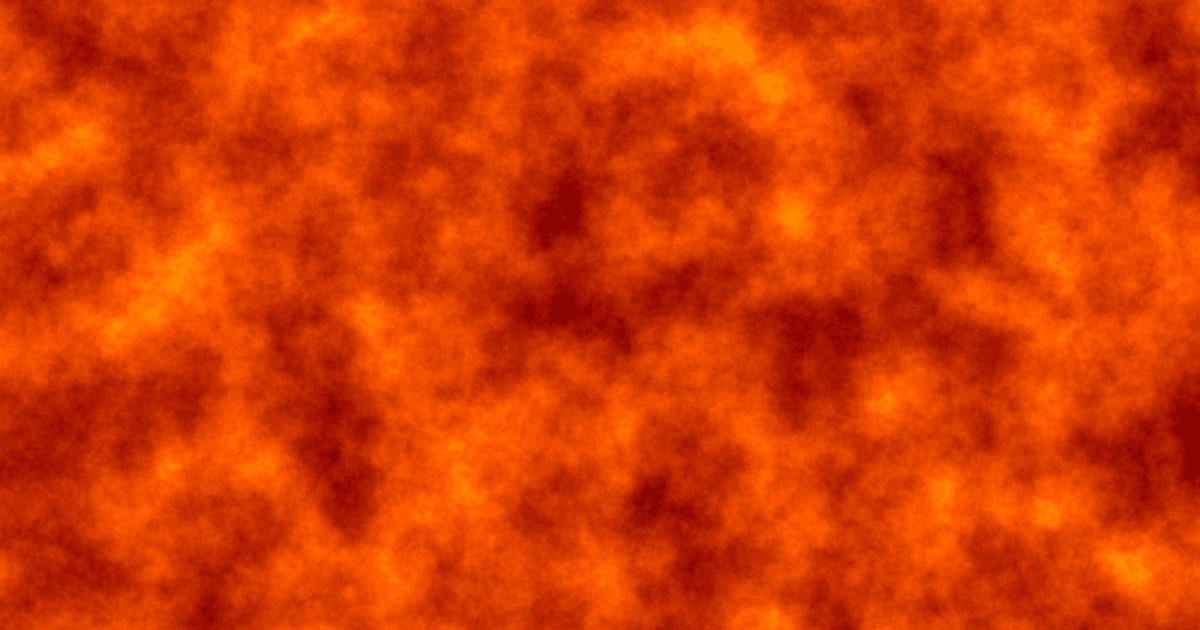
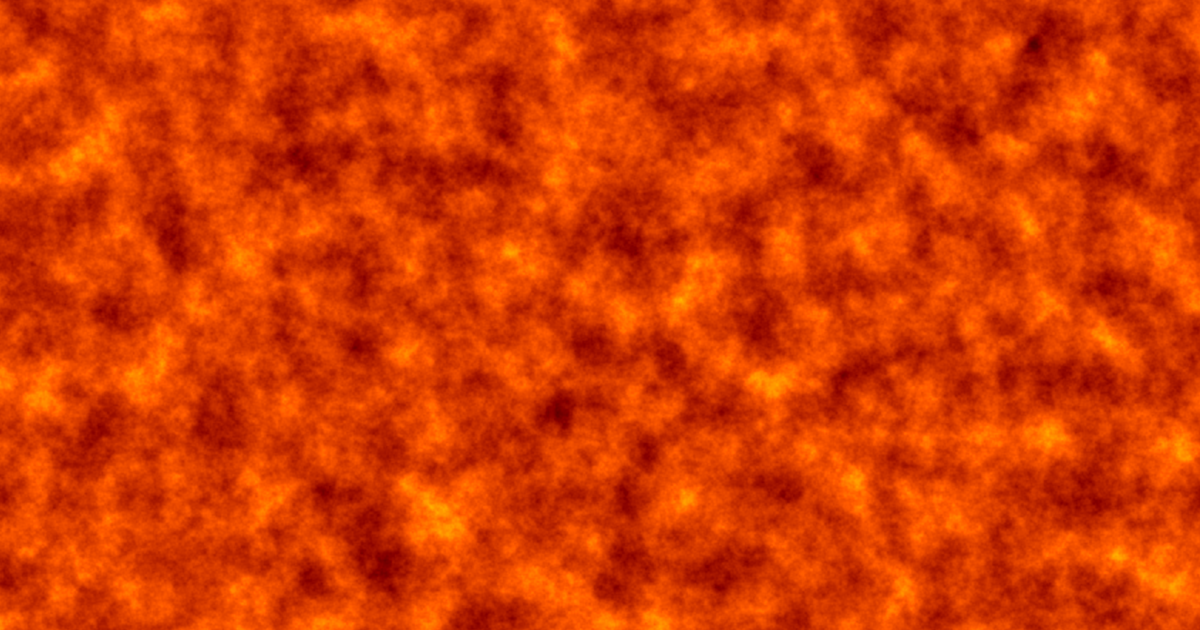
build: render the gallery from the real presets (full-pipeline tool)
Refactor scripts/render-readme-images.js to render the actual BUILTIN_PRESETS
through perlin.js generatePerlinImage (the full pipeline — domain warp,
Layer 2, flow, posterize, per-channel — via a headless mock ctx, still pure
Node / zero-dep), instead of a duplicated, simplified copy of the gradients
and hand-tuned params. Regenerate hero (lava) + a 6-image gallery that shows
the colour-mode range: aurora (HSV), nebula (per-channel RGB), marble (warp),
flow (flow field), composite (Layer 2), terrain (posterize). Update the
README gallery; drop the stale gallery-ocean / gallery-circuit images.

diff --git a/scripts/render-readme-images.js b/scripts/render-readme-images.js
@@ -1,5 +1,7 @@
-// Renders the README showcase images (assets/hero.png + gallery-*.png) using
-// the actual perlin.js module from this repo. PNG encoding is pure Node
+// Renders the README showcase images (assets/hero.png + gallery-*.png) from
+// the ACTUAL built-in presets (perlin-presets.js) through the full render
+// pipeline (perlin.js generatePerlinImage — domain warp, layer 2, flow,
+// posterize and per-channel noise all supported). PNG encoding is pure Node
 // (zlib + crc32), no external dependencies.
 //
 //   node scripts/render-readme-images.js
@@ -11,76 +13,38 @@ const fs = require("fs");
 const zlib = require("zlib");
 const path = require("path");
 
-// perlin.js exports via window.MTPerlin — build the sandbox as in AGENTS.md.
+// perlin.js + perlin-presets.js export via window.* — build the sandbox as in
+// AGENTS.md so the renderer uses the real presets with no duplicated data.
 const REPO = path.resolve(__dirname, "..");
 global.window = {};
 require(path.join(REPO, "perlin.js"));
-const { makePermutation, fbm3, fbm4, colorize } = global.window.MTPerlin;
+require(path.join(REPO, "perlin-presets.js"));
+const { generatePerlinImage } = global.window.MTPerlin;
+const { BUILTIN_PRESETS, resolveParams } = global.window.MTPerlinPresets;
 
-// ---------- Gradients (copy from perlin-studio.js so the renderer is self-contained) ----------
-const GRADIENTS = {
-  fire: [
-    { pos: 0.0, color: [0, 0, 0] },
-    { pos: 0.3, color: [136, 0, 0] },
-    { pos: 0.6, color: [255, 89, 0] },
-    { pos: 0.85, color: [255, 213, 0] },
-    { pos: 1.0, color: [255, 255, 240] },
-  ],
-  ocean: [
-    { pos: 0.0, color: [3, 11, 41] },
-    { pos: 0.3, color: [5, 56, 107] },
-    { pos: 0.6, color: [0, 144, 178] },
-    { pos: 0.85, color: [120, 220, 220] },
-    { pos: 1.0, color: [240, 248, 255] },
-  ],
-  forest: [
-    { pos: 0.0, color: [25, 35, 20] },
-    { pos: 0.3, color: [40, 80, 30] },
-    { pos: 0.6, color: [80, 140, 50] },
-    { pos: 0.85, color: [180, 200, 110] },
-    { pos: 1.0, color: [240, 245, 200] },
-  ],
-  grayscale: [
-    { pos: 0.0, color: [0, 0, 0] },
-    { pos: 1.0, color: [255, 255, 255] },
-  ],
-  sunset: [
-    { pos: 0.0, color: [12, 12, 60] },
-    { pos: 0.3, color: [110, 30, 100] },
-    { pos: 0.6, color: [240, 110, 80] },
-    { pos: 0.85, color: [255, 200, 90] },
-    { pos: 1.0, color: [255, 245, 200] },
-  ],
-};
-
-// ---------- Render one frame (loop mode at the chosen progress) ----------
-function renderFrame(params) {
-  const { width, height, scaleX, scaleY, scaleT,
-          octaves, persistence, lacunarity, base,
-          loopProgress, loopRadius = 1 } = params;
-  const perm = makePermutation(base);
-  const buf = Buffer.alloc(width * height * 3);
-
-  const radius = loopRadius * (scaleT || 1);
-  const safeProgress = ((loopProgress || 0) % 1 + 1) % 1;
-  const alpha = safeProgress * Math.PI * 2;
-  const zc = Math.cos(alpha) * radius;
-  const wc = Math.sin(alpha) * radius;
-
-  const colorParams = { ...params };
-  if (colorParams.gradientName) {
-    colorParams.gradient = GRADIENTS[colorParams.gradientName] || GRADIENTS.grayscale;
+// Headless 2D-context shim: generatePerlinImage only needs createImageData +
+// putImageData — no canvas, no deps (same trick as scripts/smoke-test.js).
+// Returns a packed RGB buffer (alpha dropped; presets don't use the mask).
+function renderRGB(params) {
+  const ctx = {
+    createImageData: (w, h) => ({ width: w, height: h, data: new Uint8ClampedArray(w * h * 4) }),
+    _img: null,
+    putImageData(img) { this._img = img; },
+  };
+  generatePerlinImage(params, ctx);
+  const rgba = ctx._img.data;
+  const rgb = Buffer.alloc(params.width * params.height * 3);
+  for (let i = 0, j = 0; i < rgba.length; i += 4) {
+    rgb[j++] = rgba[i]; rgb[j++] = rgba[i + 1]; rgb[j++] = rgba[i + 2];
   }
+  return rgb;
+}
 
-  let off = 0;
-  for (let y = 0; y < height; y++) {
-    for (let x = 0; x < width; x++) {
-      const n = fbm4(perm, x * scaleX, y * scaleY, zc, wc, octaves, persistence, lacunarity);
-      const [r, g, b] = colorize(n, colorParams);
-      buf[off++] = r; buf[off++] = g; buf[off++] = b;
-    }
-  }
-  return buf;
+// A single still frame from a named preset at a chosen loop position + size.
+function presetFrame(name, width, height, loopProgress) {
+  const preset = BUILTIN_PRESETS[name];
+  if (!preset) throw new Error("unknown preset: " + name);
+  return renderRGB(resolveParams({ ...preset, width, height, loop: true, loopProgress }));
 }
 
 // ---------- PNG encoder (pure Node) ----------
@@ -107,17 +71,17 @@ function chunk(type, data) {
   return Buffer.concat([len, typeBuf, data, crc]);
 }
 function encodePng(width, height, rgb) {
-  // IHDR: width, height, bit depth=8, colour type=2 (RGB), compression=0, filter=0, interlace=0
+  // IHDR: width, height, bit depth=8, colour type=2 (RGB), no interlace.
   const ihdr = Buffer.alloc(13);
   ihdr.writeUInt32BE(width, 0);
   ihdr.writeUInt32BE(height, 4);
-  ihdr.writeUInt8(8, 8);     // bit depth
-  ihdr.writeUInt8(2, 9);     // colour type RGB
-  ihdr.writeUInt8(0, 10);    // compression
-  ihdr.writeUInt8(0, 11);    // filter
-  ihdr.writeUInt8(0, 12);    // interlace
+  ihdr.writeUInt8(8, 8);
+  ihdr.writeUInt8(2, 9);
+  ihdr.writeUInt8(0, 10);
+  ihdr.writeUInt8(0, 11);
+  ihdr.writeUInt8(0, 12);
 
-  // Prefix each scanline with filter byte 0 (None)
+  // Prefix each scanline with filter byte 0 (None).
   const stride = width * 3;
   const filtered = Buffer.alloc(height * (stride + 1));
   for (let y = 0; y < height; y++) {
@@ -136,63 +100,18 @@ function encodePng(width, height, rgb) {
 }
 
 // ---------- Render jobs ----------
+// Hero is the iconic Lava fire; the gallery shows the range of colour modes /
+// features: HSV (aurora), per-channel RGB (nebula), domain warp (marble),
+// flow field (flow), Layer 2 composite, and posterize (terrain).
 const ASSETS = path.join(REPO, "assets");
-const LOOP_DEFAULTS = { loopRadius: 1.0, scaleT: 0.15 };
-
 const JOBS = [
-  // Hero / OG image — Lava variant, wide
-  {
-    out: "hero.png",
-    params: {
-      width: 1200, height: 630,
-      scaleX: 0.008, scaleY: 0.008, scaleT: 0.12,
-      octaves: 6, persistence: 0.62, lacunarity: 2.1, base: 7,
-      colorMode: "gradient", gradientName: "fire",
-      loopProgress: 0.42, loopRadius: 1.0,
-    },
-  },
-  // Gallery
-  {
-    out: "gallery-aurora.png",
-    params: {
-      width: 700, height: 467,
-      scaleX: 0.009, scaleY: 0.024, scaleT: 0.18,
-      octaves: 5, persistence: 0.6, lacunarity: 2.4, base: 19,
-      colorMode: "hsv",
-      hsvHueShift: 0.30, hsvHueRange: 0.48, hsvSat: 0.88, hsvVal: 1.0,
-      loopProgress: 0.27, loopRadius: 1.0,
-    },
-  },
-  {
-    out: "gallery-ocean.png",
-    params: {
-      width: 700, height: 467,
-      scaleX: 0.011, scaleY: 0.011, scaleT: 0.14,
-      octaves: 6, persistence: 0.55, lacunarity: 2.0, base: 23,
-      colorMode: "gradient", gradientName: "ocean",
-      loopProgress: 0.33, loopRadius: 1.0,
-    },
-  },
-  {
-    out: "gallery-terrain.png",
-    params: {
-      width: 700, height: 467,
-      scaleX: 0.009, scaleY: 0.009, scaleT: 0.08,
-      octaves: 6, persistence: 0.55, lacunarity: 2.0, base: 42,
-      colorMode: "posterize", posterizeSteps: 7, gradientName: "forest",
-      loopProgress: 0.60, loopRadius: 1.0,
-    },
-  },
-  {
-    out: "gallery-circuit.png",
-    params: {
-      width: 700, height: 467,
-      scaleX: 0.025, scaleY: 0.025, scaleT: 0.2,
-      octaves: 3, persistence: 0.7, lacunarity: 3.0, base: 11,
-      colorMode: "posterize", posterizeSteps: 4, gradientName: "sunset",
-      loopProgress: 0.18, loopRadius: 1.0,
-    },
-  },
+  { out: "hero.png",              preset: "lava",      width: 1200, height: 630, loopProgress: 0.42 },
+  { out: "gallery-aurora.png",    preset: "aurora",    width: 700,  height: 467, loopProgress: 0.27 },
+  { out: "gallery-nebula.png",    preset: "nebula",    width: 700,  height: 467, loopProgress: 0.55 },
+  { out: "gallery-marble.png",    preset: "marble",    width: 700,  height: 467, loopProgress: 0.33 },
+  { out: "gallery-flow.png",      preset: "flow",      width: 700,  height: 467, loopProgress: 0.18 },
+  { out: "gallery-composite.png", preset: "composite", width: 700,  height: 467, loopProgress: 0.60 },
+  { out: "gallery-terrain.png",   preset: "terrain",   width: 700,  height: 467, loopProgress: 0.50 },
 ];
 
 if (!fs.existsSync(ASSETS)) {
@@ -202,12 +121,10 @@ if (!fs.existsSync(ASSETS)) {
 
 for (const job of JOBS) {
   const t0 = Date.now();
-  const rgb = renderFrame(job.params);
-  const png = encodePng(job.params.width, job.params.height, rgb);
-  const outPath = path.join(ASSETS, job.out);
-  fs.writeFileSync(outPath, png);
-  const t1 = Date.now();
+  const rgb = presetFrame(job.preset, job.width, job.height, job.loopProgress);
+  const png = encodePng(job.width, job.height, rgb);
+  fs.writeFileSync(path.join(ASSETS, job.out), png);
   const kb = (png.length / 1024).toFixed(1);
-  console.log(`✓ ${job.out.padEnd(28)} ${job.params.width}×${job.params.height}  ${kb} KB  ${t1 - t0} ms`);
+  console.log(`✓ ${job.out.padEnd(24)} ${job.preset.padEnd(10)} ${job.width}×${job.height}  ${kb} KB  ${Date.now() - t0} ms`);
 }
 console.log("all images written →", ASSETS);

diff --git a/README.md b/README.md
@@ -81,25 +81,31 @@ live preview updates after every input.
 
 ## Gallery
 
-All four images were rendered with the tool itself — a single frame
-from the 4D loop in each case. Reproducible via seed (`base`) + parameters.
+Every image is a single frame from a **built-in preset**, rendered by the tool
+itself — and reproducible from the presets via
+[`scripts/render-readme-images.js`](scripts/render-readme-images.js). Together
+they show the range of colour modes and features.
 
 <table>
   <tr>
-    <td width="50%"><img src="assets/gallery-aurora.png" alt="Aurora — HSV mode with green-cyan-blue band" width="100%"></td>
-    <td width="50%"><img src="assets/gallery-ocean.png" alt="Ocean gradient — flowing cyan clouds" width="100%"></td>
+    <td width="33%"><img src="assets/gallery-aurora.png" alt="Aurora preset — HSV mode, cyan-green-blue bands" width="100%"></td>
+    <td width="33%"><img src="assets/gallery-nebula.png" alt="Nebula preset — per-channel RGB noise, vivid magenta" width="100%"></td>
+    <td width="33%"><img src="assets/gallery-marble.png" alt="Marble preset — domain warp pulls the field into stone veins" width="100%"></td>
   </tr>
   <tr>
-    <td align="center"><sub><b>Aurora</b> · HSV mode, scaleY ≫ scaleX → horizontal bands</sub></td>
-    <td align="center"><sub><b>Ocean</b> · gradient, 6 octaves for soft organic flow</sub></td>
+    <td align="center"><sub><b>Aurora</b> · HSV mode</sub></td>
+    <td align="center"><sub><b>Nebula</b> · per-channel RGB noise</sub></td>
+    <td align="center"><sub><b>Marble</b> · domain warp</sub></td>
   </tr>
   <tr>
-    <td width="50%"><img src="assets/gallery-terrain.png" alt="Terrain — Posterize with Forest gradient, contour-line look" width="100%"></td>
-    <td width="50%"><img src="assets/gallery-circuit.png" alt="Circuit — Posterize with 4 steps and Sunset gradient" width="100%"></td>
+    <td width="33%"><img src="assets/gallery-flow.png" alt="Flow preset — noise rendered as a vector field" width="100%"></td>
+    <td width="33%"><img src="assets/gallery-composite.png" alt="Composite preset — two noise layers blended on a magma gradient" width="100%"></td>
+    <td width="33%"><img src="assets/gallery-terrain.png" alt="Terrain preset — posterized forest gradient, contour-map look" width="100%"></td>
   </tr>
   <tr>
-    <td align="center"><sub><b>Terrain</b> · Posterize mode with 7 steps → contour-map look</sub></td>
-    <td align="center"><sub><b>Circuit</b> · Posterize 4-step, high lacunarity → hard edges</sub></td>
+    <td align="center"><sub><b>Flow</b> · flow field</sub></td>
+    <td align="center"><sub><b>Composite</b> · Layer 2 blend</sub></td>
+    <td align="center"><sub><b>Terrain</b> · Posterize mode</sub></td>
   </tr>
 </table>
 
